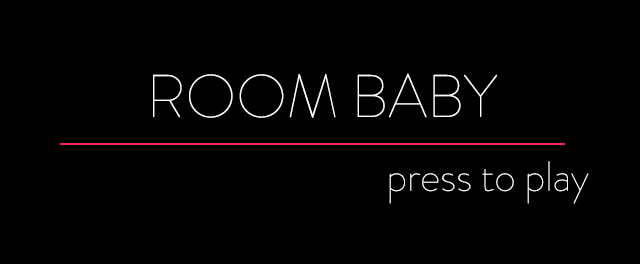
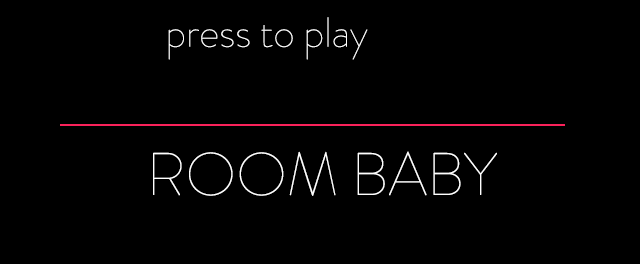
updates video poster

diff --git a/views/video.html b/views/video.html
@@ -12,9 +12,8 @@
   <script src="//vjs.zencdn.net/4.12/video.js"></script>
 </head>
 
-<body style='text-align:center; margin-top:15%'>
-  Room Baby Videos API
-  <video id="example_video_1" class="video-js vjs-default-skin" controls preload="auto" width="640" height="264" poster="http://localhost:3001/views/img/room-baby-poster.png" data-setup='{"example_option":true}'>
+<body style='position: fixed; top: 50%; left: 50%; margin-top: -132px; margin-left: -320px; background-color: black;'>
+  <video id="example_video_1" class="video-js vjs-default-skin" controls preload="auto" width="640" height="264" poster="https://raw.githubusercontent.com/scottjason/room-baby-videos-api/master/views/img/room-baby-poster.png" data-setup='{"example_option":true}'>
     <source src=  <%= videoUrl %> type='video/mp4' />
   </video>
 
